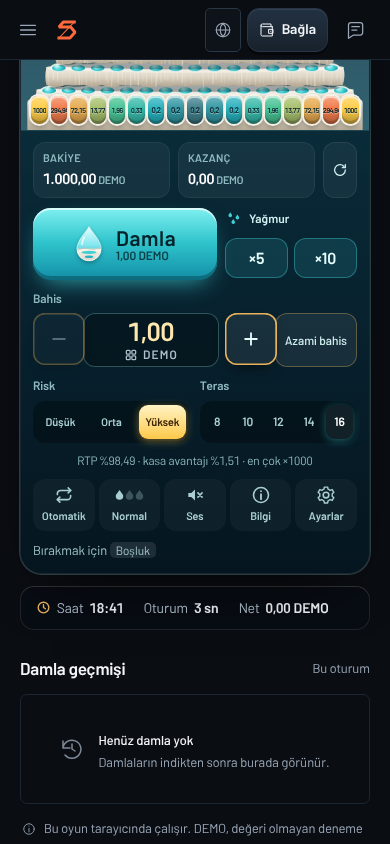
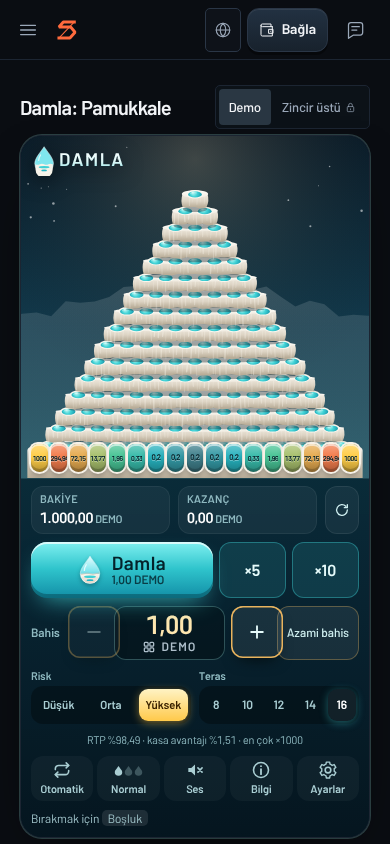
Göreme + Damla: whole game fits one phone screen without page scroll
Phone/portrait tables take 100svh below their own top (--fit-top from
slot-kit/use-viewport-top); Göreme board scales to the height left
(stage size container, compact logo, 76 px spin, ribbons over the logo
row); Damla terraces take the height left by a compact deck and a one-row
heading. Desktop 1440x900 unchanged. Unscrolled 390x844 evidence replaced,
noted in both web.json files. typecheck pass; goreme+damla specs 16/16.

Claude-Session: https://claude.ai/code/session_01XMMN66zs1aJKgzKGtwpiHy

diff --git a/apps/web/components/damla/damla-game.module.css b/apps/web/components/damla/damla-game.module.css
@@ -252,3 +252,47 @@
   .strip li, .callout, .goldBanner, .pool[data-hit] .poolWater, .pool[data-hit]::after, .drop[data-locked] .dropGlyph { animation-duration: 1ms !important; animation-iteration-count: 1 !important; }
   .callout { animation: none; }
 }
+
+/* Phone / portrait fit (22 Oct 2026): terraces, pools, money, drop and rain, bet, risk, rows and tools fit the first
+   screen without page scroll. The table takes the viewport height below its own top (--fit-top, useViewportTop);
+   the terraces get whatever height the compact deck leaves (the board redraws to its box). Presentation only. */
+@media (max-width: 860px), (max-aspect-ratio: 4 / 5) {
+  .table { height: max(500px, calc(100svh - var(--fit-top, 139px) - 6px)); }
+  .layout { grid-template-rows: minmax(0, 1fr) auto; height: 100%; }
+  .stage { height: auto; min-height: 0; }
+  .deck { gap: 8px; padding: 8px 10px 10px; min-height: 0; }
+  .cell { padding: 5px 9px; gap: 0; }
+  .actions { grid-template-columns: 1.3fr 1fr; gap: 6px; }
+  .drop { min-height: 56px; gap: 10px; border-radius: 16px; }
+  .stop { min-height: 56px; }
+  .dropGlyph { width: 24px; height: 30px; }
+  .dropText strong { font-size: 19px; }
+  .rain { grid-template-columns: 1fr 1fr; }
+  .rainLabel { position: absolute; width: 1px; height: 1px; overflow: hidden; clip: rect(0 0 0 0); white-space: nowrap; }
+  .rainBtn { min-height: 56px; }
+  .betRow { grid-template-columns: auto minmax(0, 1fr); align-items: center; gap: 8px; }
+  .betControls { grid-template-columns: 40px minmax(0, 1fr) 40px auto; }
+  .stepBtn, .betValue, .maxChip { min-height: 40px; }
+  .choice { grid-column: auto; gap: 2px; }
+  .choice legend { margin-bottom: 2px; font-size: 11px; }
+  .segments { padding: 3px; gap: 3px; }
+  .segment { min-height: 32px; font-size: 12px; }
+  .choice:nth-of-type(1) .segment { font-size: 11.5px; }
+  .facts { margin: 0; font-size: 11px; white-space: nowrap; overflow: hidden; text-overflow: ellipsis; }
+  .tool { min-height: 44px; padding: 4px 2px; gap: 1px; }
+  .msg { margin-top: 0; min-height: 0; }
+  .msgHint, .msgError { font-size: 12px; }
+  .msgHint { white-space: nowrap; overflow: hidden; text-overflow: ellipsis; }
+  .page :global(.game-heading) { flex-wrap: nowrap; align-items: center; margin-bottom: 6px; }
+  .page :global(.game-heading > div:first-child) { width: auto; min-width: 0; }
+  .page :global(.game-heading h1) { font-size: 20px; white-space: nowrap; }
+  .page :global(.game-heading p) { display: none; }
+  .page :global(.game-heading .mode-badge) { display: none; }
+  .page :global(.mode-switch) { width: auto; }
+  .page :global(.mode-switch button) { flex: none; min-height: 36px; padding: 0 10px; }
+}
+/* short phones: the facts line (also in the info pages) and the idle hint give their height to the terraces */
+@media (max-width: 860px) and (max-height: 760px), (max-aspect-ratio: 4 / 5) and (max-height: 760px) {
+  .facts { display: none; }
+  .msgHint { display: none; }
+}

diff --git a/apps/web/components/damla/damla-game.tsx b/apps/web/components/damla/damla-game.tsx
@@ -24,6 +24,7 @@ import { DemoNotice, GameHeading, type Mode } from '../game-common';
 import { Icon } from '../icons';
 import { AutoplayPanel, AutoplayStopButton, BetSelector, GameInfo, Modal, RealityCheckDialog, SessionBar, SettingsPanel, useSession, useSlotSettings } from '../slot-kit';
 import kit from '../slot-kit/kit.module.css';
+import { useViewportTop } from '../slot-kit/use-viewport-top';
 import { DamlaBoard, type BoardPool, type DamlaBoardHandle } from './board';
 import { DamlaHistory } from './damla-history';
 import { damlaInfoPages } from './damla-info-pages';
@@ -135,6 +136,8 @@ export function DamlaGame() {
   useEffect(() => { if (sourceView.status === 'remote') setRemoteBalance(sourceView.balanceCents); }, [sourceView]);
 
   const board = useRef<DamlaBoardHandle>(null);
+  const tableRef = useRef<HTMLElement>(null);
+  useViewportTop(tableRef);
   const flights = useRef(new Map<number, Flight>());
   const seq = useRef(0);
   const batchRef = useRef(0);
@@ -609,7 +612,7 @@ export function DamlaGame() {
     <div className={`game-page ${styles.page}`}>
       <GameHeading title={t('title')} subtitle={t('subtitle')} mode={mode} setMode={setMode} active={inFlight > 0 || auto !== null || pending}
         badge={remote ? rgs.source('remote') : sourcePending ? t('badge.checking') : rgs.source('local')} />
-      <section className={`game-table ${styles.table}`} aria-label={t('table')} data-risk={risk}>
+      <section ref={tableRef} className={`game-table ${styles.table}`} aria-label={t('table')} data-risk={risk}>
         <div className={styles.layout}>
           <div className={styles.stage} data-replay={replayInfo ? '' : undefined}>
             <div className={styles.stageTop}>

diff --git a/apps/web/components/goreme/goreme-game.module.css b/apps/web/components/goreme/goreme-game.module.css
@@ -620,14 +620,17 @@
   .left { padding: 6px 6px 0; }
   .leftLogo, .table[data-free] .leftLogo { width: auto; height: 40px; min-height: 0; padding: 0; justify-content: center; }
   .leftLogo > svg { width: auto; height: 100%; }
-  .stage { container-type: size; padding: 0; }
+  .stage { container-type: size; padding: 0; z-index: 4; }
   .column {
     --gr-fixed: 98px;
     --bw: min(100cqw - 12px, 600px, (100cqh - var(--gr-fixed)) / 1.047, (100cqh - var(--gr-fixed) - 60px) / 0.839);
     position: absolute; inset: 0; justify-content: center; padding: 4px 3px; gap: 4px;
   }
-  .stage[data-replay] .column { --gr-fixed: 134px; padding-top: 40px; }
-  .hud { min-height: 36px; }
+  /* replay / autoplay ribbons sit over the logo row, so the board keeps its size */
+  .stage[data-replay] .column { padding-top: 4px; }
+  .replayRibbon, .autoRibbon { top: -42px; }
+  .wind { flex: none; white-space: nowrap; }
+  .hud { min-height: 36px; width: min(100cqw - 12px, 600px); }
   .chip, .freeCounter, .globalChip { min-height: 34px; }
   .meter { min-height: 38px; width: var(--bw); }
   .meterPart strong { font-size: 18px; }
@@ -659,6 +662,8 @@
 @media (max-width: 760px) and (max-height: 760px), (max-aspect-ratio: 4 / 5) and (max-height: 760px) {
   .left { display: none; }
   .msgHint { display: none; }
+  .replayRibbon, .autoRibbon { top: 4px; }
+  .stage[data-replay] .column { --gr-fixed: 134px; padding-top: 40px; }
 }
 @media (max-width: 760px), (max-aspect-ratio: 4 / 5) {
   .meterIdle { font-size: 11.5px; line-height: 1.25; gap: 4px; }
